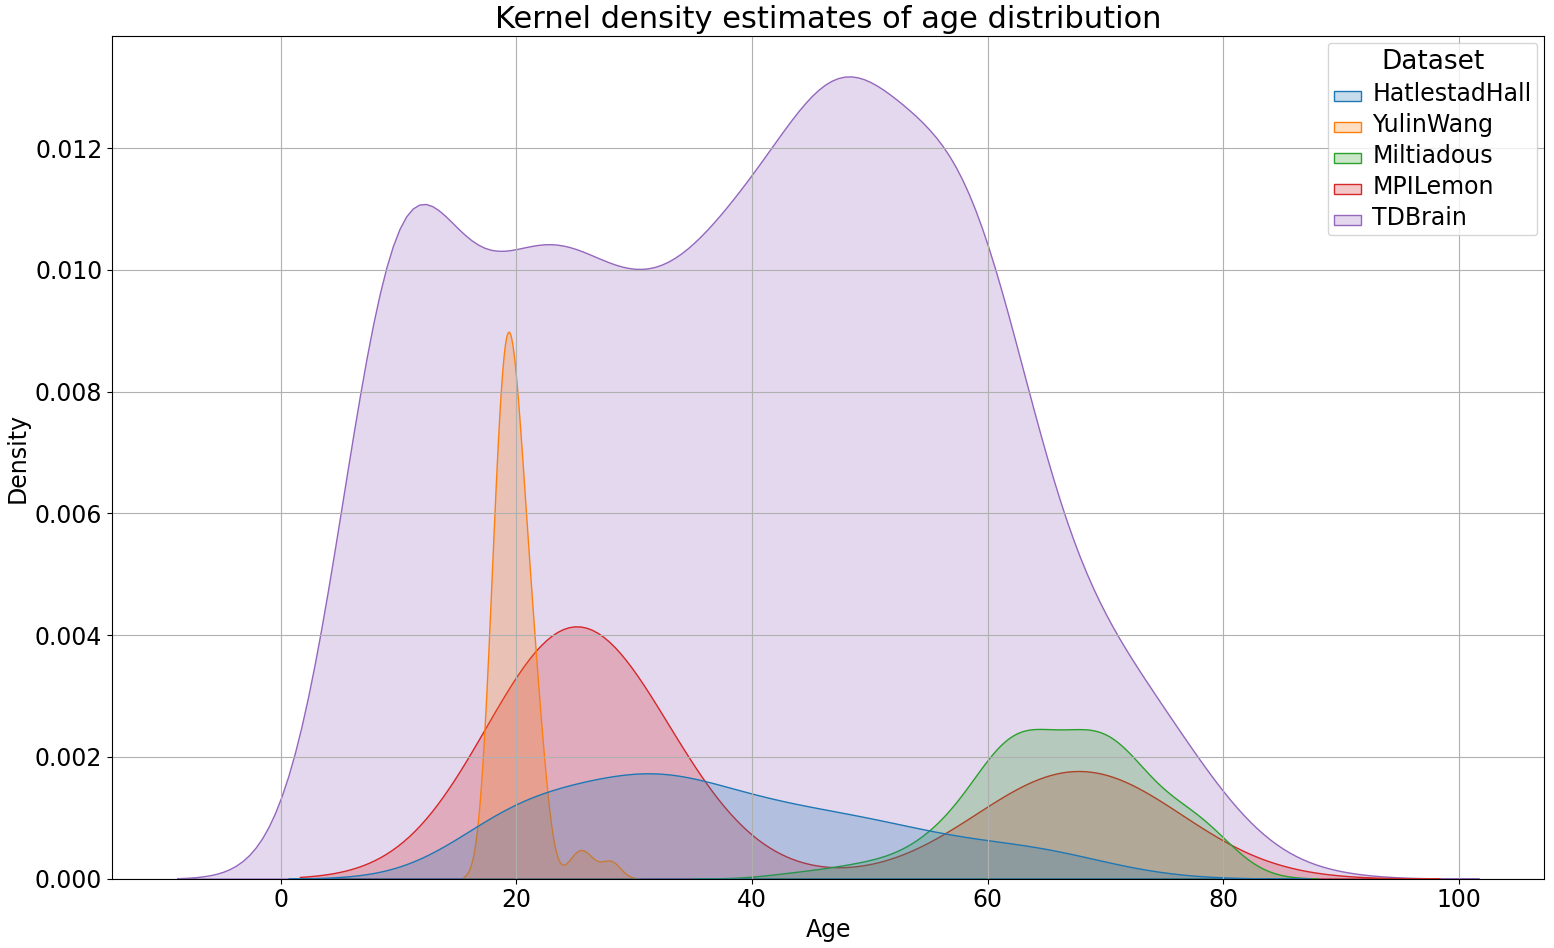
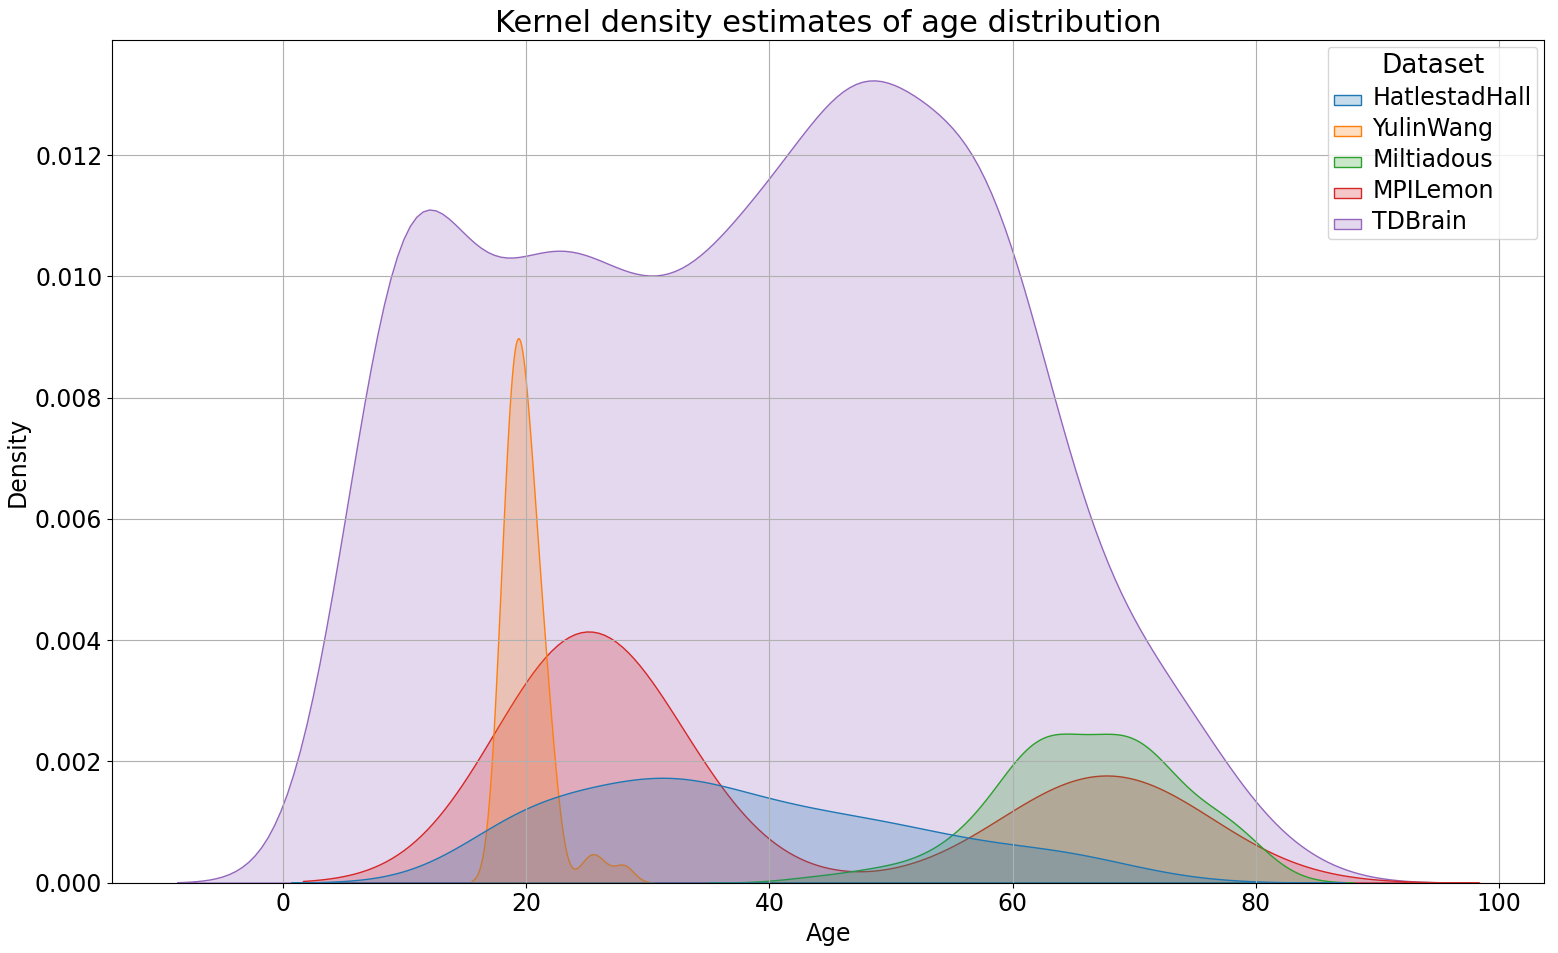
plotting of age distributions

diff --git a/scripts/visualisations/descriptions/age_distributions.py b/scripts/visualisations/descriptions/age_distributions.py
@@ -22,10 +22,9 @@ def main():
         # Use all subjects
         subjects = dataset.get_subject_ids()
 
-        # Loop through all subjects
-        for subject in subjects:
-            age_distributions["Age"].append(dataset.age(subject_ids=(subject,))[0])
-            age_distributions["Dataset"].append(type(dataset).__name__)
+        # Add ages and dataset
+        age_distributions["Age"].extend(dataset.age(subject_ids=subjects))
+        age_distributions["Dataset"].extend([type(dataset).__name__] * len(subjects))
 
     # ----------------
     # Plotting
